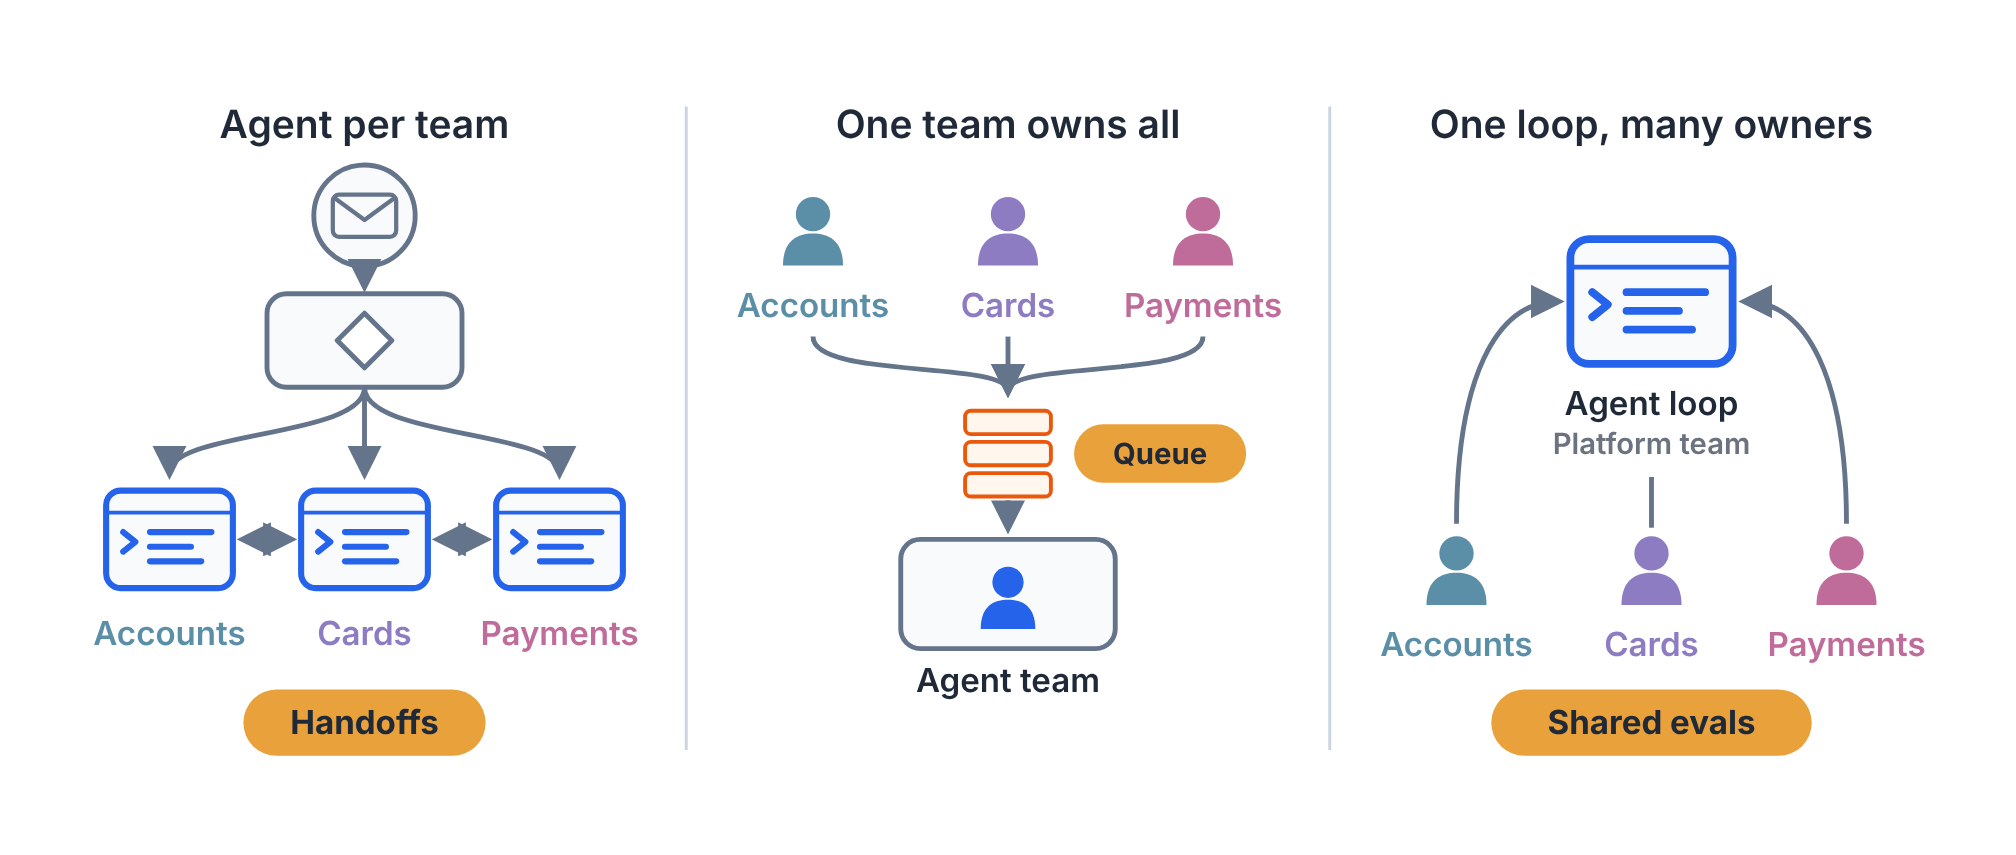
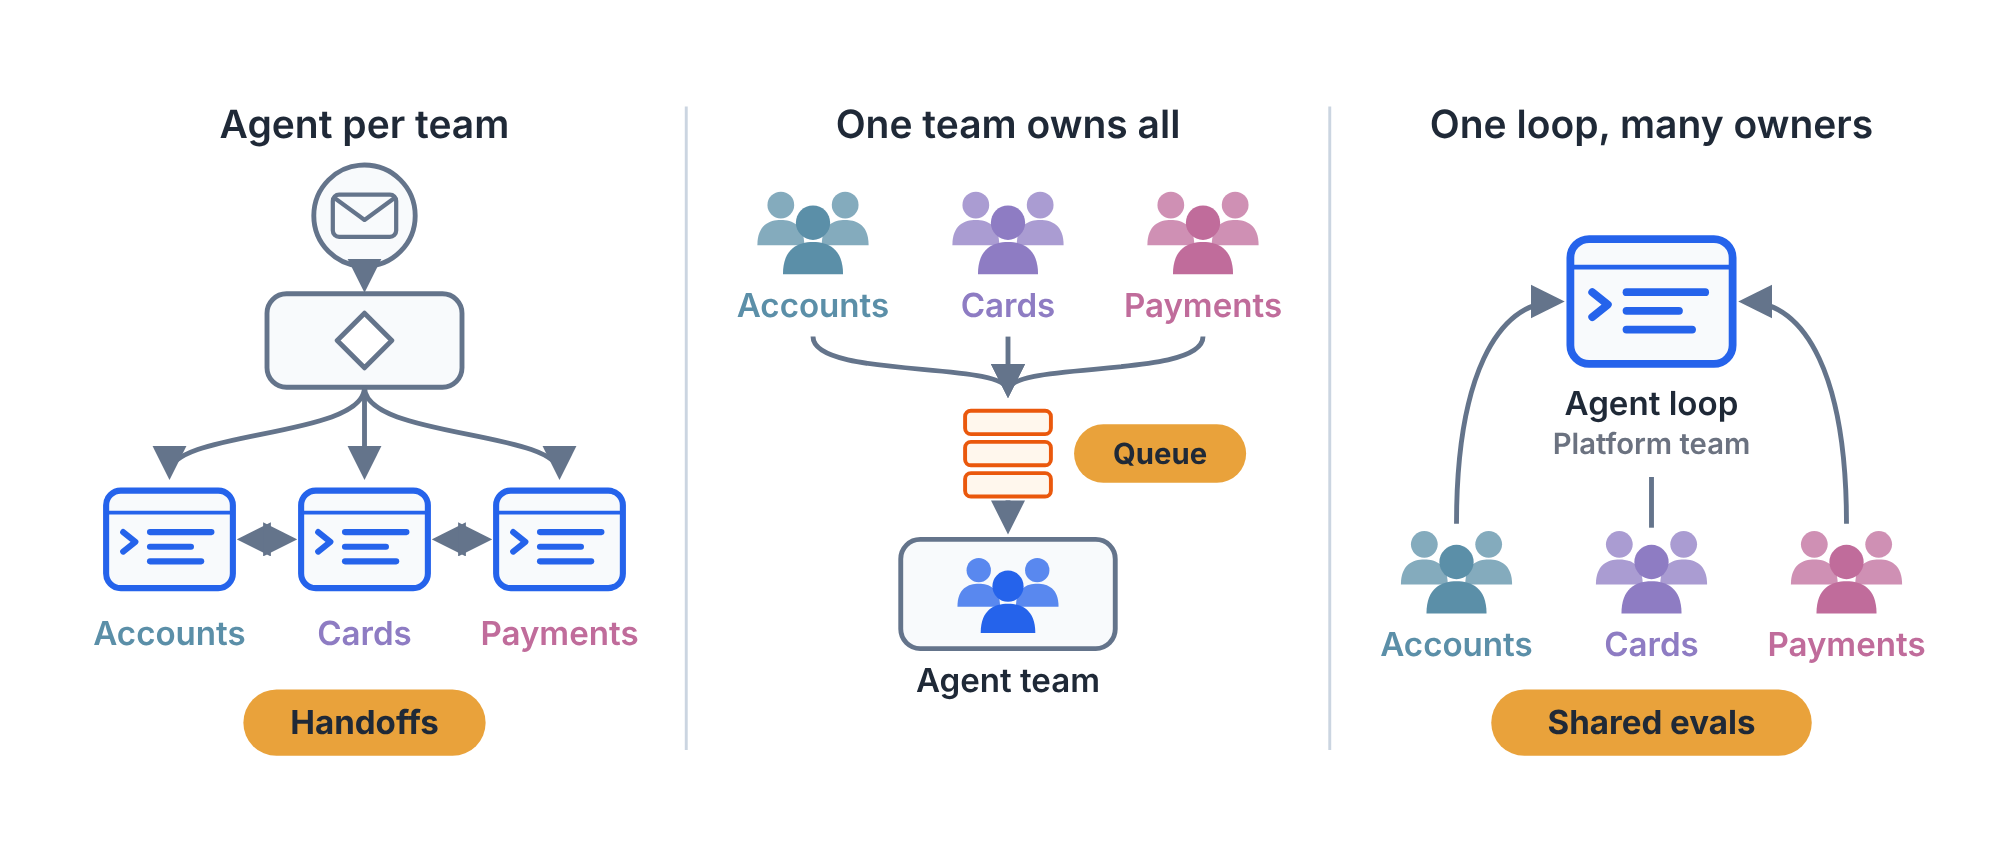
One-agent post: pull-request path with one central eval set (#361)
* Draft post on one agent loop with many owning teams

Claude-Session: https://claude.ai/code/session_0197XX8Xhipiac2PkSX3oPn3

* One-agent post: add published reports and a criterion for splitting

Claude-Session: https://claude.ai/code/session_0197XX8Xhipiac2PkSX3oPn3

* One-agent post: add featured thumbnail

Claude-Session: https://claude.ai/code/session_0197XX8Xhipiac2PkSX3oPn3

* One-agent post: rules that keep the eval gate from coupling teams

Claude-Session: https://claude.ai/code/session_0197XX8Xhipiac2PkSX3oPn3

* One-agent post: thesis figure, handoff figure, design map and gate grid

Claude-Session: https://claude.ai/code/session_0197XX8Xhipiac2PkSX3oPn3

* One-agent post: cut repetition, make team independence the spine

Claude-Session: https://claude.ai/code/session_0197XX8Xhipiac2PkSX3oPn3

* One-agent post: LinkedIn version

Claude-Session: https://claude.ai/code/session_0197XX8Xhipiac2PkSX3oPn3

* One-agent post: tighten the last three sections

Claude-Session: https://claude.ai/code/session_0197XX8Xhipiac2PkSX3oPn3

* One-agent post: drop the split section, which the cited article covers

Claude-Session: https://claude.ai/code/session_0197XX8Xhipiac2PkSX3oPn3

* One-agent post: replace vague sentences with plain ones

Claude-Session: https://claude.ai/code/session_0197XX8Xhipiac2PkSX3oPn3

* One-agent post: drop the tool-count point

Claude-Session: https://claude.ai/code/session_0197XX8Xhipiac2PkSX3oPn3
[…]

diff --git a/src/components/TeamFigures.tsx b/src/components/TeamFigures.tsx
@@ -8,9 +8,6 @@
  * - handoff: Alex's message through the subagent design. The router sends it
  *   to Accounts, which hands the card to Cards; the handoff carries only
  *   part of what Alex wrote, so Cards asks for the account number again.
- * - gate: which failing eval cases block a team's change. Its own domain's
- *   cases and the must-not-break set block it; other teams' cases are only
- *   reported to their owners.
  *
  * Drawn in the style of the post's map (TeamMap.tsx) and the figures of
  * workflow-vs-agent (palette, icons, short labels); the prose explains them.
@@ -65,6 +62,15 @@ const Router = ({ x, y, w = 100, h = 48 }: Point & { w?: number; h?: number }) =
   <g>
     <rect x={x - w / 2} y={y - h / 2} width={w} height={h} rx={10} fill={color('node-bg')} stroke={color('node-border')} strokeWidth={2.5} />
     <path d={`M${x},${y - 14} L${x + 14},${y} L${x},${y + 14} L${x - 14},${y} Z`} fill={color('surface')} stroke={color('node-border')} strokeWidth={2.5} strokeLinejoin="round" />
+  </g>
+);
+
+/** A team, never one person: one person in front of two colleagues, as Experts draws the experts. */
+const Team = ({ x, y, scale = 1, fill }: Point & { scale?: number; fill: string }) => (
+  <g transform={`translate(${x} ${y}) scale(${scale})`}>
+    <Person x={-15} y={-6} scale={0.78} fill={fill} opacity={0.75} />
+    <Person x={15} y={-6} scale={0.78} fill={fill} opacity={0.75} />
+    <Person x={0} y={4} fill={fill} />
   </g>
 );
 
@@ -125,7 +131,7 @@ function OneTeam({ id }: { id: string }) {
       </Text>
       {TEAMS.map((t, i) => (
         <g key={t.name}>
-          <Person x={xs[i]} y={74} scale={1.1} fill={t.color} />
+          <Team x={xs[i]} y={74} scale={1.1} fill={t.color} />
           <Text x={xs[i]} y={118} size={NAME} fill={t.color}>
             {t.name}
           </Text>
@@ -138,7 +144,7 @@ function OneTeam({ id }: { id: string }) {
       ))}
       <path d="M150,212 V226" {...edge} markerEnd={`url(#${id})`} />
       <rect x={95} y={232} width={110} height={56} rx={10} fill={color('node-bg')} stroke={color('node-border')} strokeWidth={2.5} />
-      <Person x={150} y={262} scale={1} fill={color('added')} />
+      <Team x={150} y={260} scale={1} fill={color('added')} />
       <Text x={150} y={310} size={NAME}>
         Agent team
       </Text>
@@ -165,7 +171,7 @@ function OneLoop({ id }: { id: string }) {
       {TEAMS.map((t, i) => (
         <g key={t.name}>
           {i !== 1 && <path d={`M${xs[i]},224 C${xs[i]},150 ${i === 0 ? 70 : 230},110 ${i === 0 ? 102 : 198},110`} {...edge} markerEnd={`url(#${id})`} />}
-          <Person x={xs[i]} y={248} scale={1.1} fill={t.color} />
+          <Team x={xs[i]} y={248} scale={1.1} fill={t.color} />
           <Text x={xs[i]} y={292} size={NAME} fill={t.color}>
             {t.name}
           </Text>
@@ -355,110 +361,9 @@ function Handoff() {
   );
 }
 
-// ---------------------------------------------------------------- gate
-
-const GateDescription =
-  'A grid of which failing eval cases block a change. Rows: a change by Accounts, by Cards, by Payments. Columns: the Accounts cases, the Cards cases, the Payments cases, and the must-not-break set. A change is blocked by failures in its own team’s cases and in the must-not-break set; failures in another team’s cases are reported to that team and don’t block.';
-
-interface GateLayout {
-  width: number;
-  height: number;
-  size: number;
-  cell: { w: number; h: number };
-  cols: number[];
-  rows: number[];
-  /** The baseline of the column headers' first line. */
-  head: number;
-  /** Each row's team: left of its cells on wide screens, above them on phones. */
-  rowLabels: Label[];
-  rowPrefix: string;
-}
-
-const GATE_WIDE: GateLayout = {
-  width: 770,
-  height: 330,
-  size: 18,
-  cell: { w: 120, h: 62 },
-  cols: [284, 420, 556, 700],
-  rows: [116, 192, 268],
-  head: 30,
-  rowLabels: [116, 192, 268].map((y) => ({ x: 4, y: y + 6, anchor: 'start' })),
-  rowPrefix: 'Change by ',
-};
-
-const GATE_TALL: GateLayout = {
-  width: 440,
-  height: 400,
-  size: 17,
-  cell: { w: 98, h: 54 },
-  cols: [52, 162, 272, 386],
-  rows: [130, 236, 342],
-  head: 26,
-  rowLabels: [130, 236, 342].map((y) => ({ x: 4, y: y - 36, anchor: 'start' })),
-  rowPrefix: 'Change by ',
-};
-
-const HEADS = [...TEAMS.map((t) => ({ top: t.name, bottom: 'cases', fill: t.color })), { top: 'Must not', bottom: 'break', fill: undefined }];
-
-function GateSvg({ layout, className }: { layout: GateLayout; className: string }) {
-  const { cell, size } = layout;
-  return (
-    <Svg viewBox={`0 0 ${layout.width} ${layout.height}`} label={GateDescription} className={className}>
-      {HEADS.map((h, j) => (
-        <g key={h.top}>
-          <Text x={layout.cols[j]} y={layout.head} size={size} fill={h.fill}>
-            {h.top}
-          </Text>
-          <Text x={layout.cols[j]} y={layout.head + size + 4} size={size - 2} muted>
-            {h.bottom}
-          </Text>
-        </g>
-      ))}
-      {TEAMS.map((team, i) => (
-        <g key={team.name}>
-          <text {...layout.rowLabels[i]} textAnchor={layout.rowLabels[i].anchor} fontSize={size} fontWeight={600} fill={color('muted')}>
-            {layout.rowPrefix}
-            <tspan fill={team.color}>{team.name}</tspan>
-          </text>
-          {layout.cols.map((cx, j) => {
-            const cy = layout.rows[i];
-            const blocks = j === i || j === HEADS.length - 1;
-            const box = { x: cx - cell.w / 2, y: cy - cell.h / 2, width: cell.w, height: cell.h, rx: 10 };
-            return blocks ? (
-              <g key={j}>
-                <rect {...box} fill={color('node-bg')} stroke={color('bad')} strokeWidth={2.5} />
-                <text x={cx} y={cy} dy="0.35em" textAnchor="middle" fontSize={size} fontWeight={700} fill={color('bad')}>
-                  Blocks
-                </text>
-              </g>
-            ) : (
-              <g key={j}>
-                <rect {...box} fill="none" stroke={color('edge')} strokeWidth={2} strokeDasharray="5 4" />
-                <text x={cx} y={cy} dy="0.35em" textAnchor="middle" fontSize={size - 1} fontWeight={500} fill={color('muted')}>
-                  Reports
-                </text>
-              </g>
-            );
-          })}
-        </g>
-      ))}
-    </Svg>
-  );
-}
-
-function Gate() {
-  return (
-    <>
-      <GateSvg layout={GATE_WIDE} className="figure-wide" />
-      <GateSvg layout={GATE_TALL} className="figure-tall" />
-    </>
-  );
-}
-
 export const FIGURES = {
   shapes: { component: Shapes, description: ShapesDescription, width: 760 },
   handoff: { component: Handoff, description: HandoffDescription, width: 760 },
-  gate: { component: Gate, description: GateDescription, width: 620 },
 } satisfies Record<string, { component: ComponentType; description: string; width: number }>;
 
 export type FigureName = keyof typeof FIGURES;

diff --git a/src/content/reposts/linkedin/one-agent-many-teams.md b/src/content/reposts/linkedin/one-agent-many-teams.md
@@ -3,7 +3,7 @@ status: draft
 image: /images/blog/one-agent-many-teams/linkedin/three-ways.png
 comments:
   - text: |
-      The full post, with what Shopify, Sierra, Cognition and monday.com report about one loop versus subagents, how skills, MCP servers and eval cases each plug in, and what the platform team costs: https://danielfridljand.de/post/one-agent-many-teams
+      The full post, with what Shopify, Sierra, Cognition and monday.com report about one loop versus subagents, and how skills, MCP servers and eval cases each plug in: https://danielfridljand.de/post/one-agent-many-teams
 ---
 When several teams build one AI agent, split the ownership between them, not the agent.
 
@@ -11,8 +11,8 @@ Anthropic recently advised against giving each team its own subagent, and I've s
 
 I've also seen the opposite fail. When one team owns the whole agent, every other team's change queues behind it, and the teams who know their systems best end up writing tickets. Teams need to ship without waiting for each other.
 
-What I'd do is the third panel in the picture below, "One loop, many owners". A platform team owns the agent loop, the system prompt and a shared eval gate. Each feature team contributes three things without touching the model or the prompt: a skill that says how it handles its cases, an MCP server with its tools, and eval cases.
+What I'd do is the third panel in the picture below, "One loop, many owners". A platform team owns the agent loop, the system prompt and one central eval set. Each feature team contributes three things without touching the model or the prompt: a skill that says how it handles its cases, an MCP server with its tools, and eval cases.
 
-One loop does couple the teams: they share the model's context and can break each other's conversations. The shared evals catch what one team breaks for another, so no team has to wait for the others to release. A change that passes needs no sign-off. A team is blocked only by its own cases and a short list of conversations nobody may break; if it breaks another team's case, that team gets a report, and the change still ships.
+One loop does couple the teams: they share the model's context and can break each other's conversations. So changes go through pull requests: a team that adds a tool adds eval cases for it to one central eval set, CI runs the whole set, and if the existing cases aren't significantly broken, the team merges. The platform team maintains that path and shouldn't become the bottleneck.
 
 #AIAgents #LLM #SoftwareArchitecture #PlatformEngineering
